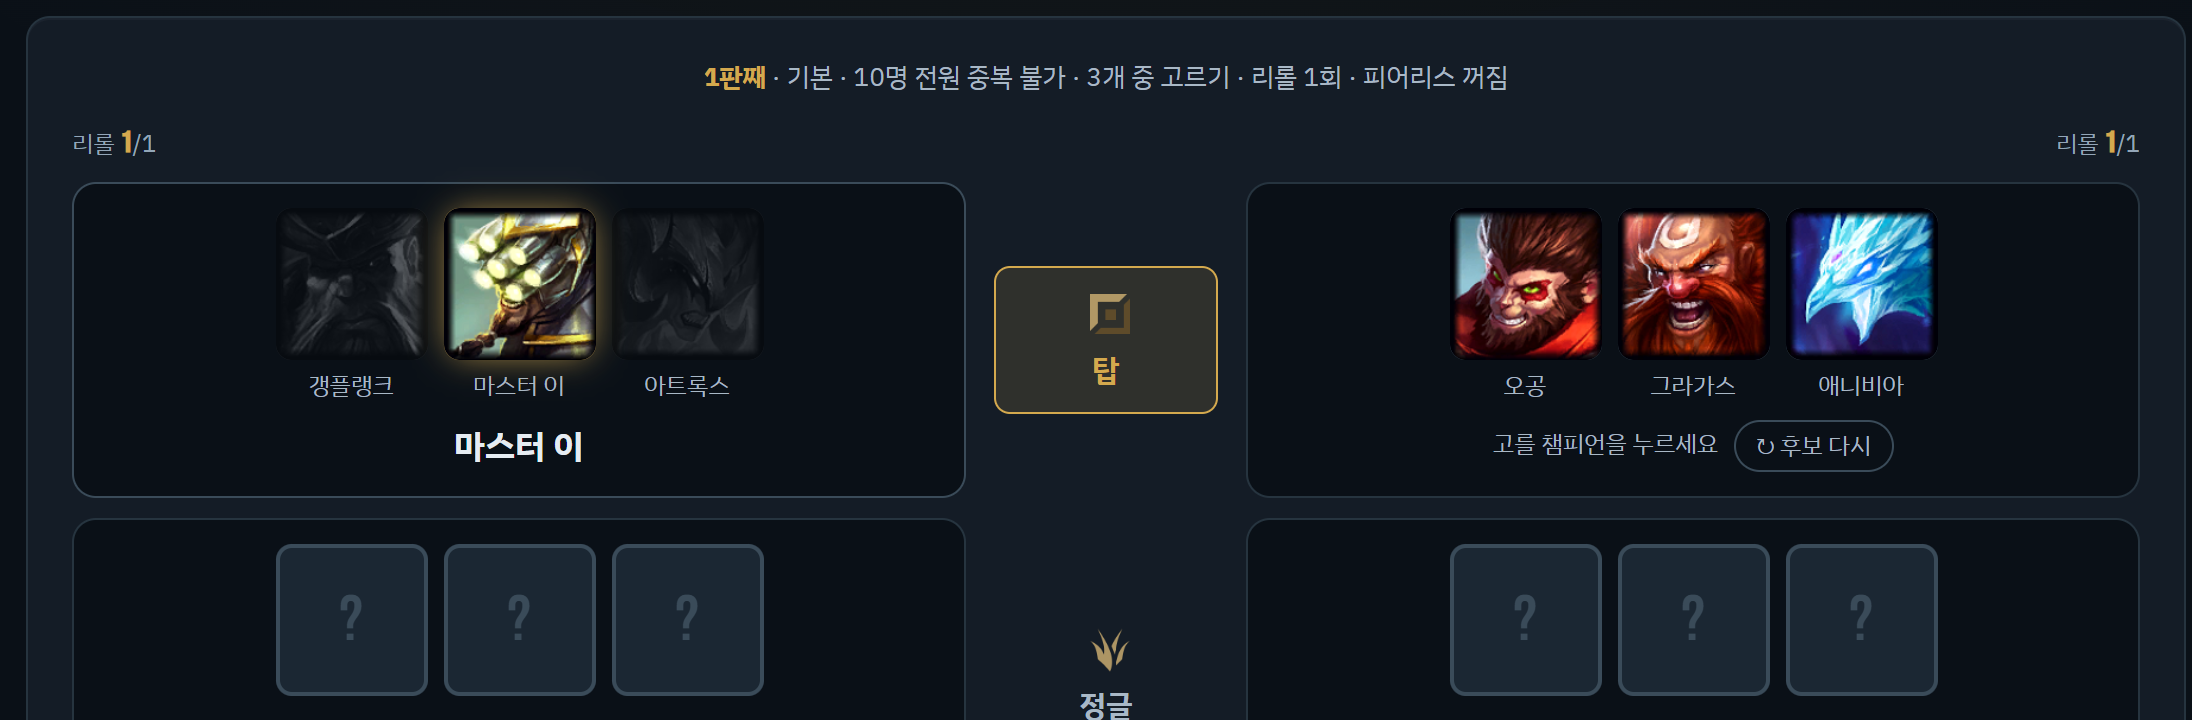
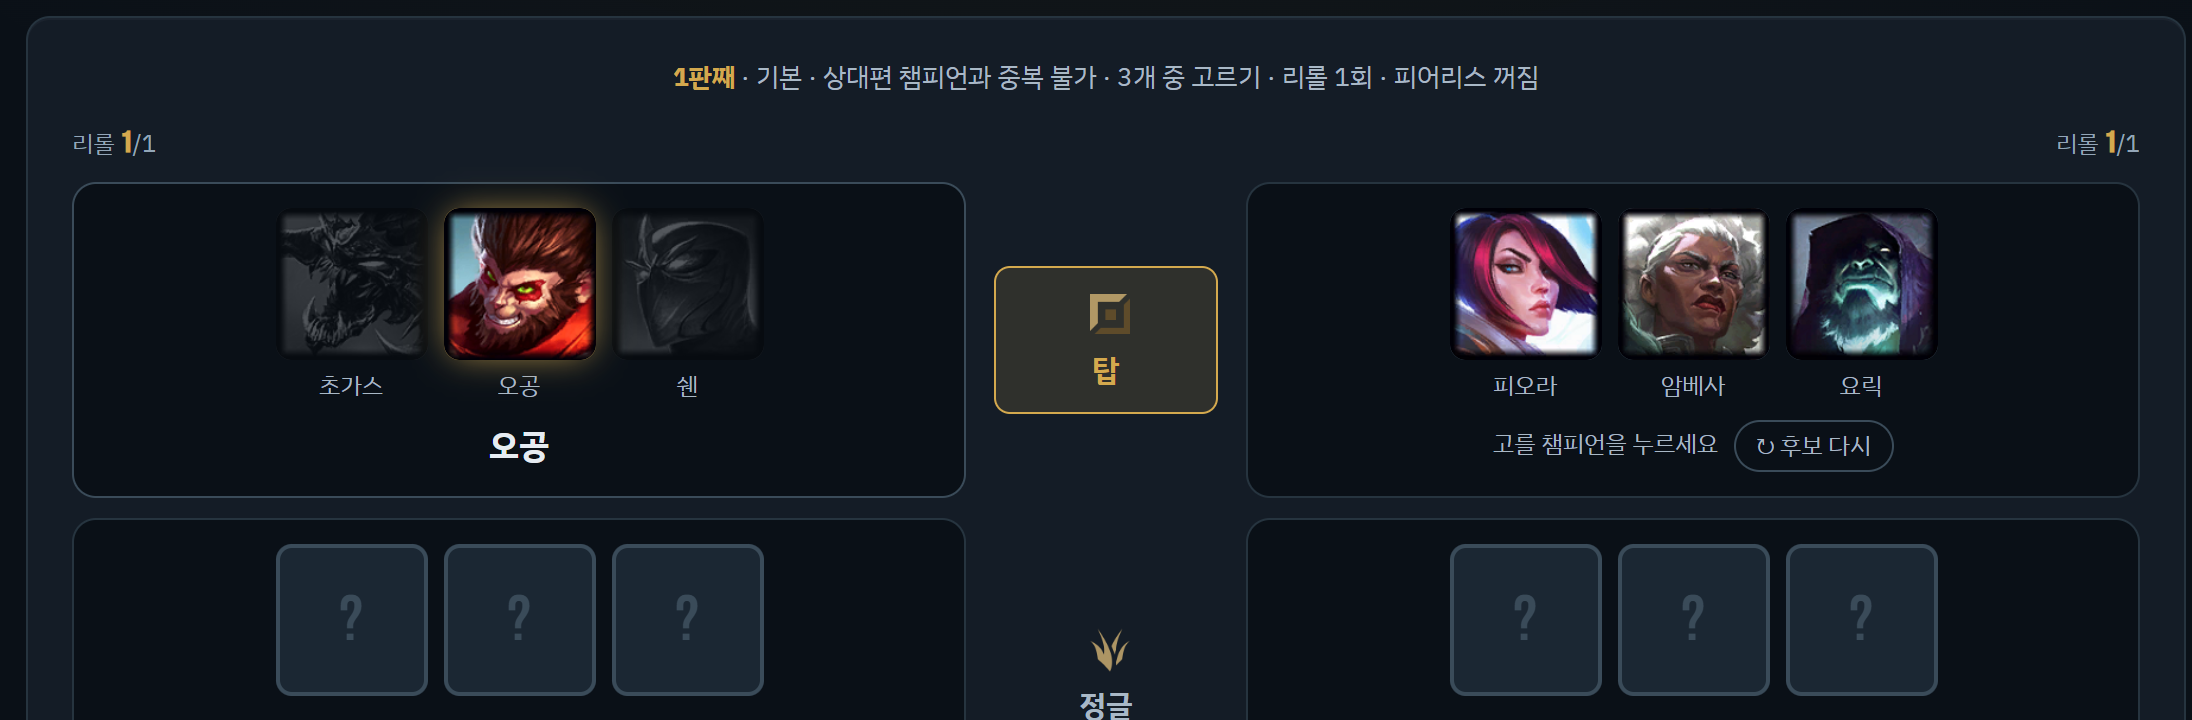
랜랜내 중복 옵션 이름을 '상대편 챔피언과 중복 불가'로, 사용 안내 수정
- 설정 버튼·설정 요약·README·GUIDE-RANDOM.md 문구 변경, 예시 화면 2장 다시 찍음
- GUIDE-RANDOM.md 직접 수정분 포함

diff --git a/public/index.html b/public/index.html
@@ -3291,7 +3291,7 @@ const RR_LANE_KR={TOP:'탑',JGL:'정글',MID:'미드',ADC:'원딜',SUP:'서폿'}
 const RR_RANGE={base:.5,meta:1};
 const RR_OPTS=[
   {k:'range',lbl:'챔피언 범위',opts:[['base','기본','그 라인 픽률 0.5% 이상'],['meta','메타픽','그 라인 픽률 1.0% 이상']]},
-  {k:'dup',lbl:'중복',opts:[[true,'상대와 중복 가능','블라인드 픽으로 게임 생성'],[false,'10명 전원 중복 불가','같은 챔피언 없음']]},
+  {k:'dup',lbl:'중복',opts:[[true,'상대와 중복 가능','블라인드 픽으로 게임 생성'],[false,'상대편 챔피언과 중복 불가','10명 모두 다른 챔피언']]},
   {k:'pick',lbl:'뽑기 방식',opts:[['one','바로 확정','멈춘 챔피언으로 결정'],['three','3개 중 고르기','후보 3명 중 팀이 고름']]},
   {k:'rerolls',lbl:'리롤 (팀당 · 판마다)',opts:[0,1,2,3,4,5].map(n=>[n,n+'회',''])},
   {k:'fearless',lbl:'피어리스',opts:[[false,'끄기',''],[true,'켜기','지난 판에 쓴 챔피언은 양쪽 모두 금지']]}

diff --git a/GUIDE-RANDOM.md b/GUIDE-RANDOM.md
@@ -4,9 +4,6 @@
 
 - 설치나 가입 없이, 진행자가 방을 만들고 화면을 디스코드로 공유하면 됩니다.
 
-- 사람 이름이나 팀장 입력은 없습니다. 왼쪽 팀·오른쪽 팀 칸에 라인별 챔피언만 뽑습니다.
-
-
 
 # 1. 방 만들기
 
@@ -16,7 +13,7 @@
 
 - **챔피언 범위**: **기본**은 그 라인 픽률 0.5% 이상, **메타픽**은 1.0% 이상인 챔피언만 뽑힙니다. 한국 서버 · 에메랄드 이상 통계 기준입니다.
 
-- **중복**: **상대와 중복 가능**이면 양 팀에 같은 챔피언이 나올 수 있고, **10명 전원 중복 불가**면 10명 모두 다른 챔피언이 나옵니다. 같은 팀 안에서는 어느 쪽이든 겹치지 않습니다.
+- **중복**: **상대와 중복 가능**이면 양 팀에 같은 챔피언이 나올 수 있고, **상대편 챔피언과 중복 불가**면 상대 팀과 같은 챔피언이 나오지 않습니다. 같은 팀 안에서는 어느 쪽이든 겹치지 않습니다.
 
 - **뽑기 방식**: **바로 확정**은 멈춘 챔피언으로 정해지고, **3개 중 고르기**는 후보 3명 중에서 팀이 고릅니다.
 
@@ -108,19 +105,13 @@
 
 # 3. 규칙 정리
 
-- **같은 팀 중복**: 언제나 없습니다.
-
 - **상대와 중복 가능**: 롤 사용자 설정 게임을 **블라인드 픽**으로 만드세요. 다른 모드는 양 팀에 같은 챔피언을 고를 수 없습니다.
 
-- **10명 전원 중복 불가**: 10명 모두 다른 챔피언입니다. 3개 중 고르기에서도 양 팀 후보가 서로 겹치지 않습니다.
+- **상대편 챔피언과 중복 불가**: 상대 팀과 같은 챔피언이 나오지 않아 10명 모두 다른 챔피언이 됩니다. 3개 중 고르기에서도 양 팀 후보가 서로 겹치지 않습니다.
 
 - **하드 피어리스**: 끝까지 뽑은 판의 10명은 다음 판부터 양 팀 모두 나오지 않습니다. 리롤로 버린 챔피언, 고르지 않은 후보, 도중에 버린 판의 챔피언은 금지되지 않습니다.
 
 - **피어리스로 할 수 있는 판 수**: 원딜 후보가 가장 적어서 기본 범위는 약 15판, 메타픽은 약 13판까지입니다. 바닥나면 아래쪽 **피어리스 초기화**를 누르세요.
-
-- **결과는 서버가 정합니다**: 진행자 화면과 관전 화면이 같은 순간에 같은 챔피언에서 멈춥니다.
-
-
 
 # 4. 자주 묻는 질문
 

diff --git a/README.md b/README.md
@@ -61,7 +61,7 @@ npx wrangler dev
 팀장·명단 입력은 없고 진행자 링크와 관전 링크만 나옵니다(보통 진행자 화면을 디스코드로 공유).
 
 - 챔피언 범위: 그 라인 픽률 0.5% 이상(기본) 또는 1.0% 이상(메타픽). 한국 서버 · 에메랄드 이상 기준
-- 중복: 상대와 같은 챔피언 허용(블라인드 픽) 또는 10명 전원 중복 불가. 같은 팀 안 중복은 언제나 불가
+- 중복: 상대와 같은 챔피언 허용(블라인드 픽) 또는 상대편 챔피언과 중복 불가. 같은 팀 안 중복은 언제나 불가
 - 뽑기 방식: 바로 확정 또는 3개 중 고르기(진행자가 후보를 눌러 확정)
 - 리롤: 팀당 판마다 0~5회(기본 1회)
 - 하드 피어리스: 끝까지 뽑은 판의 10명은 다음 판부터 양쪽 모두 금지
